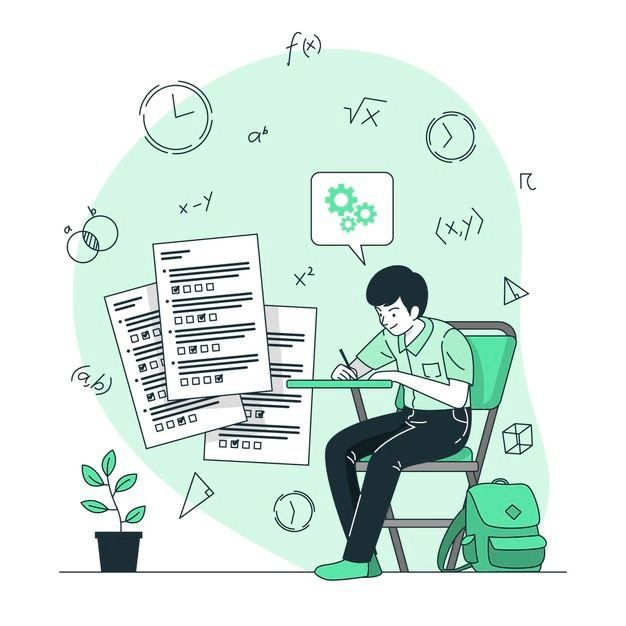
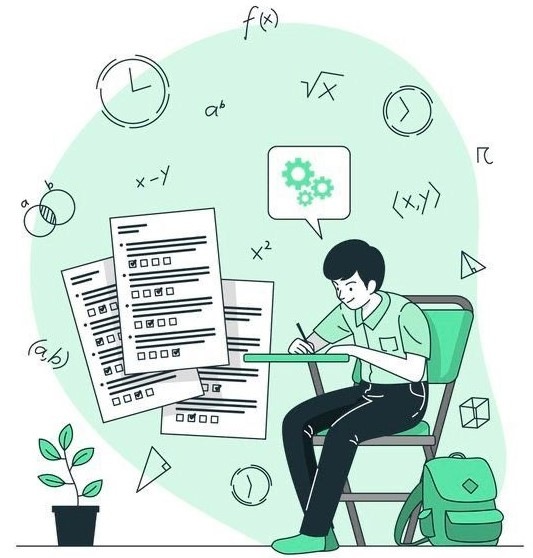
edit the image

diff --git a/src/componant/Sidebar.jsx b/src/componant/Sidebar.jsx
@@ -6,7 +6,7 @@ function Sidebar(){
         <>
         <div className="side-sec">
         <div className="first-top">
-            <img src={image} alt="sideimage"/>
+            <img  className="main-img" src={image} alt="sideimage"/>
         </div>
         <div className="second-buttom">con</div>
         </div>

diff --git a/src/index.css b/src/index.css
@@ -58,7 +58,7 @@ body {
 
 /* TOP IMAGE */
 .first-top img {
-  width: 100%;
+  width: 90%;
   height: auto;
   border-radius: 10px;
 }
